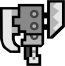
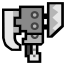
Charge Blade Icones Added

diff --git a/MH Database/MH Database/Ressources/Pictures/Rarities/Weapons.Designer.cs b/MH Database/MH Database/Ressources/Pictures/Rarities/Weapons.Designer.cs
@@ -63,6 +63,106 @@ namespace MH_Database.Ressources.Pictures.Rarities {
         /// <summary>
         ///   Recherche une ressource localisée de type System.Drawing.Bitmap.
         /// </summary>
+        internal static System.Drawing.Bitmap CB_R1 {
+            get {
+                object obj = ResourceManager.GetObject("CB_R1", resourceCulture);
+                return ((System.Drawing.Bitmap)(obj));
+            }
+        }
+        
+        /// <summary>
+        ///   Recherche une ressource localisée de type System.Drawing.Bitmap.
+        /// </summary>
+        internal static System.Drawing.Bitmap CB_R2 {
+            get {
+                object obj = ResourceManager.GetObject("CB_R2", resourceCulture);
+                return ((System.Drawing.Bitmap)(obj));
+            }
+        }
+        
+        /// <summary>
+        ///   Recherche une ressource localisée de type System.Drawing.Bitmap.
+        /// </summary>
+        internal static System.Drawing.Bitmap CB_R3 {
+            get {
+                object obj = ResourceManager.GetObject("CB_R3", resourceCulture);
+                return ((System.Drawing.Bitmap)(obj));
+            }
+        }
+        
+        /// <summary>
+        ///   Recherche une ressource localisée de type System.Drawing.Bitmap.
+        /// </summary>
+        internal static System.Drawing.Bitmap CB_R4 {
+            get {
+                object obj = ResourceManager.GetObject("CB_R4", resourceCulture);
+                return ((System.Drawing.Bitmap)(obj));
+            }
+        }
+        
+        /// <summary>
+        ///   Recherche une ressource localisée de type System.Drawing.Bitmap.
+        /// </summary>
+        internal static System.Drawing.Bitmap CB_R5 {
+            get {
+                object obj = ResourceManager.GetObject("CB_R5", resourceCulture);
+                return ((System.Drawing.Bitmap)(obj));
+            }
+        }
+        
+        /// <summary>
+        ///   Recherche une ressource localisée de type System.Drawing.Bitmap.
+        /// </summary>
+        internal static System.Drawing.Bitmap CB_R6 {
+            get {
+                object obj = ResourceManager.GetObject("CB_R6", resourceCulture);
+                return ((System.Drawing.Bitmap)(obj));
+            }
+        }
+        
+        /// <summary>
+        ///   Recherche une ressource localisée de type System.Drawing.Bitmap.
+        /// </summary>
+        internal static System.Drawing.Bitmap CB_R7 {
+            get {
+                object obj = ResourceManager.GetObject("CB_R7", resourceCulture);
+                return ((System.Drawing.Bitmap)(obj));
+            }
+        }
+        
+        /// <summary>
+        ///   Recherche une ressource localisée de type System.Drawing.Bitmap.
+        /// </summary>
+        internal static System.Drawing.Bitmap CB_R8 {
+            get {
+                object obj = ResourceManager.GetObject("CB_R8", resourceCulture);
+                return ((System.Drawing.Bitmap)(obj));
+            }
+        }
+        
+        /// <summary>
+        ///   Recherche une ressource localisée de type System.Drawing.Bitmap.
+        /// </summary>
+        internal static System.Drawing.Bitmap CB_R9 {
+            get {
+                object obj = ResourceManager.GetObject("CB_R9", resourceCulture);
+                return ((System.Drawing.Bitmap)(obj));
+            }
+        }
+        
+        /// <summary>
+        ///   Recherche une ressource localisée de type System.Drawing.Bitmap.
+        /// </summary>
+        internal static System.Drawing.Bitmap CB_RX {
+            get {
+                object obj = ResourceManager.GetObject("CB_RX", resourceCulture);
+                return ((System.Drawing.Bitmap)(obj));
+            }
+        }
+        
+        /// <summary>
+        ///   Recherche une ressource localisée de type System.Drawing.Bitmap.
+        /// </summary>
         internal static System.Drawing.Bitmap DB_R1 {
             get {
                 object obj = ResourceManager.GetObject("DB_R1", resourceCulture);
